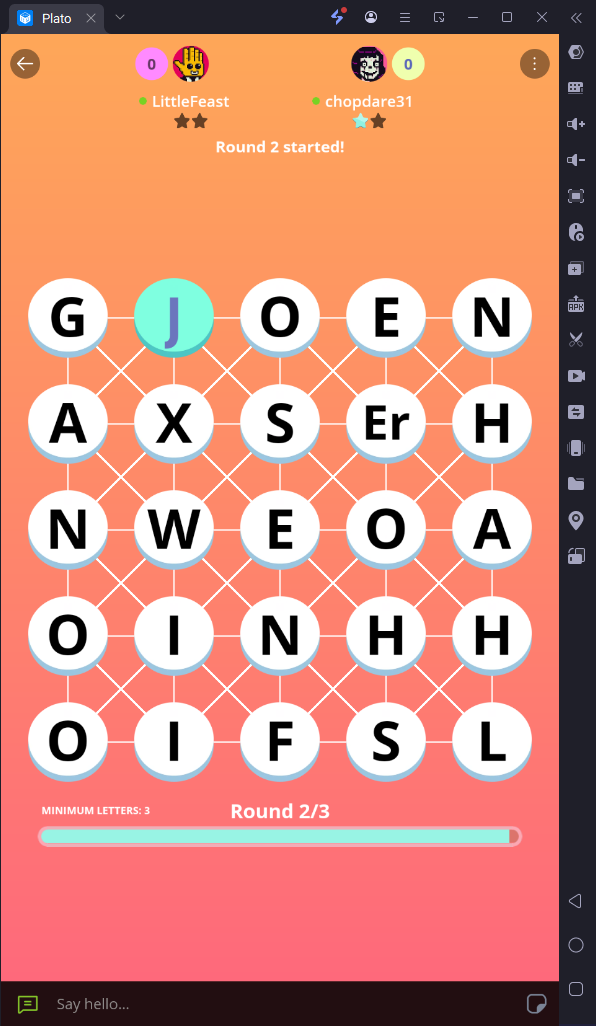
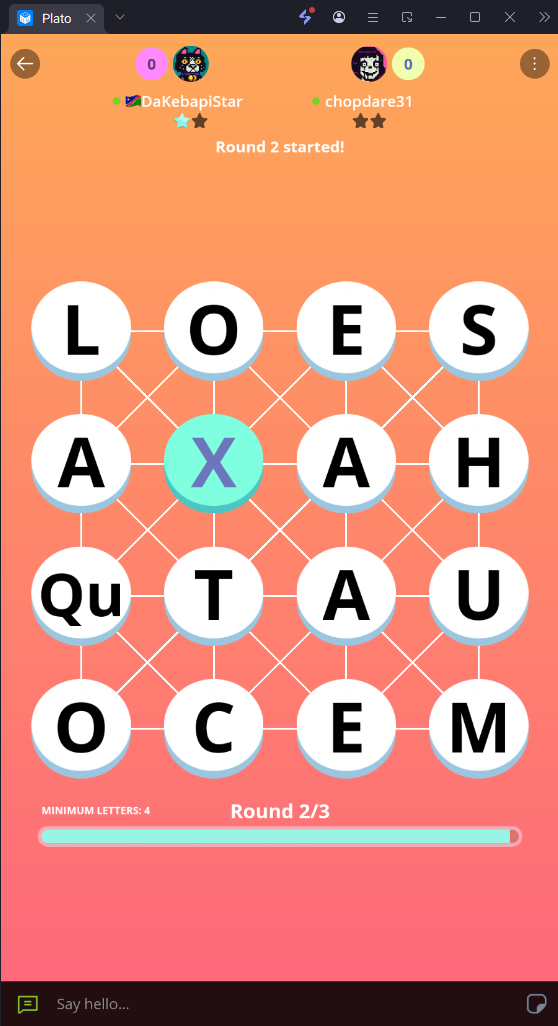
Added a function to sort the words according to the distance of the word path

diff --git a/src/core/controller.py b/src/core/controller.py
@@ -6,6 +6,7 @@ from random import uniform
 import time
 import pyautogui
 from pynput import keyboard
+import math
 
 
 
@@ -114,11 +115,21 @@ class AppController:
         listener.start()
         
         self.app.is_solving = True # State of the solving process
+
+        def total_path_distance(path : list[list[int]]):
+            total = 0.0
+            for i in range(len(path) - 1):
+                x1, y1 = path[i]
+                x2, y2 = path[i + 1]
+                total += math.hypot(x1 - x2, y1 - y2)
+            return total
+
         
         # Sort the longest words from begining to the end
-        sorted_items = sorted(self.solver.found_words.items(), key=lambda x: len(x[0][0]), reverse=True)
         
-        for (_, _), path in sorted_items:
+        sorted_words_by_distance = sorted(self.solver.found_words.items(), key=lambda x: total_path_distance(x[1]), reverse=True)
+        
+        for (_, _), path in sorted_words_by_distance:
             if not self.app.is_solving:
                 self.app.is_paused = False
                 break

diff --git a/src/core/word_box_solver_algo.py b/src/core/word_box_solver_algo.py
@@ -112,7 +112,7 @@ class WordBoxSolver:
         char : str = grid[row][col]
         index : int = ord(char[0]) - ord("a")
         
-        
+
         if (not node or not node.children[index] or node.children[index].count == 0): return
         
         # Move to the next node in the trie
